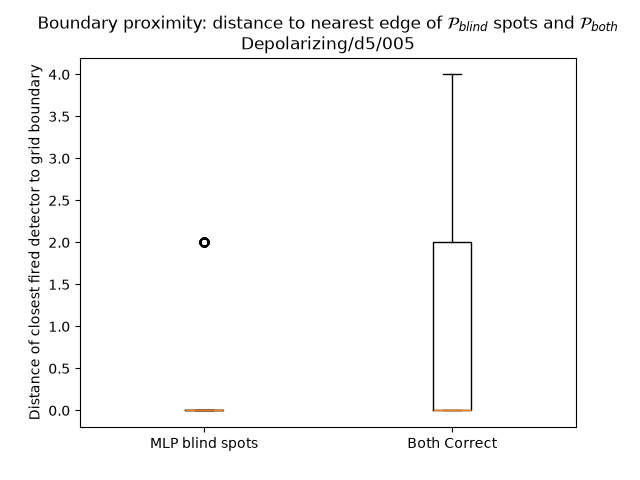
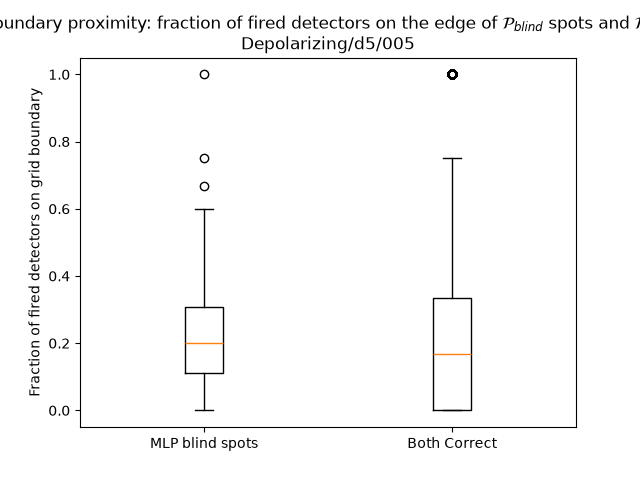
carac end

diff --git a/analysis/syndrome_features.py b/analysis/syndrome_features.py
@@ -211,31 +211,32 @@ def compute_boundary_proximity_boxplot(syndromes_mlp_blindpsots:List, syndromes_
         for j, xy in coord.items()
     }
 
-    def min_boundary_dist_per_sample(syndromes):
-        dists = []
+    def boundary_fraction_per_sample(syndromes):
+        # fraction of THIS sample's fired detectors that sit right on the boundary (dist == 0).
+        # normalized by how many detectors fired
+        fracs = []
         for sample in syndromes:
             fired = [boundary_dist[j] for j in range(len(sample)) if sample[j] == 1]
-            # get the min of all minimum distances from all samples
-            dists.append(min(fired) if fired else np.nan)
-        return np.array(dists)
+            fracs.append(sum(d == 0 for d in fired) / len(fired) if fired else np.nan)
+        return np.array(fracs)
 
-    blindspot_dist = min_boundary_dist_per_sample(syndromes_mlp_blindpsots)
-    both_correct_dist = min_boundary_dist_per_sample(syndromes_both_correct)
+    blindspot_frac = boundary_fraction_per_sample(syndromes_mlp_blindpsots)
+    both_correct_frac = boundary_fraction_per_sample(syndromes_both_correct)
 
-    # samples with zero fired detectors have no "closest fired detector" -> drop them
-    blindspot_dist = blindspot_dist[~np.isnan(blindspot_dist)]
-    both_correct_dist = both_correct_dist[~np.isnan(both_correct_dist)]
+    # samples with zero fired detectors have no defined fraction -> drop them
+    blindspot_frac = blindspot_frac[~np.isnan(blindspot_frac)]
+    both_correct_frac = both_correct_frac[~np.isnan(both_correct_frac)]
 
     fig, ax = plt.subplots()
     ax.boxplot(
-        [blindspot_dist, both_correct_dist],
+        [blindspot_frac, both_correct_frac],
         tick_labels=["MLP blind spots", "Both Correct"]
     )
     ax.set_title(
-        r"Boundary proximity: distance to nearest edge of $\mathcal{P}_{blind}$ spots and $\mathcal{P}_{both}$"
+        r"Boundary proximity: fraction of fired detectors on the edge of $\mathcal{P}_{blind}$ spots and $\mathcal{P}_{both}$"
         f"\n{group_path}"
     )
-    ax.set_ylabel("Distance of closest fired detector to grid boundary")
+    ax.set_ylabel("Fraction of fired detectors on grid boundary")
 
     os.makedirs(f"{output_files_path}/Boundary", exist_ok=True)
     fig.savefig(f"{output_files_path}/Boundary/{group_path.replace('/', '_')}_BoundaryBoxplot.png")
